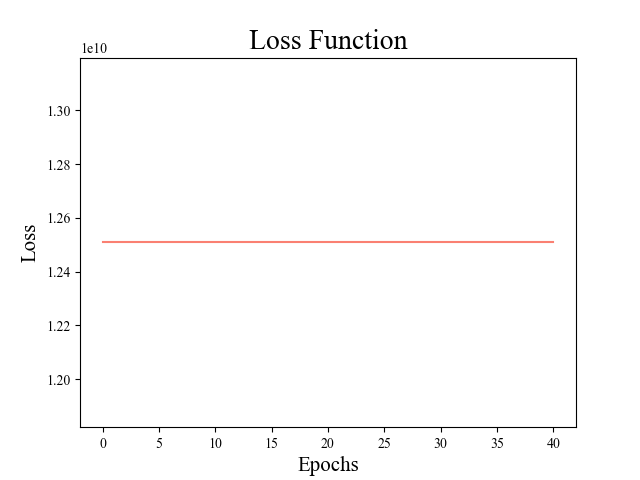
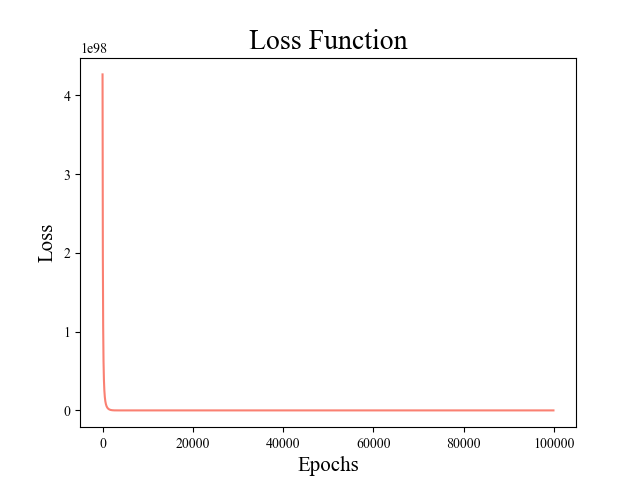
Update the approach for learning from sampling

diff --git a/train.py b/train.py
@@ -6,10 +6,11 @@ Implementing polynomial decomposition using PyTorch.
 # Imports
 import torch
 import torch.optim as optim
-from model import PolynomialDecomposition, WeightedMSELoss
+from model import PolynomialDecomposition
+import numpy as np
 import sympy as sp
 from sympy import expand
-from functions import generate_polynomial, plot_loss
+from functions import *
 from tqdm.auto import tqdm
 from os.path import join
 
@@ -17,8 +18,12 @@ from os.path import join
 DEVICE = torch.device("cuda" if torch.cuda.is_available() else "cpu")
 
 # Hyperparameters
-LR = 0.001
-EPOCHS = 1000
+LR = 1e-3
+EPOCHS = int(1e5)
+EARLY_STOPPING = 200
+EPSILON = 1e-3
+SAMPLES = 1000
+VAR = 10
 DEG_P, DEG_Q = 5, 3
 DEGREE = DEG_P * DEG_Q
 WEIGHTS = torch.linspace(1, DEGREE + 1, steps=DEGREE + 1).to(DEVICE)
@@ -29,8 +34,11 @@ x = sp.symbols('x')
 # Define the polynomials
 P, Q = generate_polynomial(degree=DEG_P, var=x), generate_polynomial(degree=DEG_Q, var=x)
 R = expand(P.subs(x, Q))
-# Get its coefficients
-R_coeffs = torch.tensor(sp.Poly(R, x).all_coeffs()[::-1], dtype=torch.float64).to(DEVICE)
+
+# Present the polynomials
+print("P(x):", present_result(P))
+print("Q(x):", present_result(Q))
+print("R(x):", present_result(R))
 
 # Initialize the model
 model = PolynomialDecomposition(degree=DEGREE).to(DEVICE)
@@ -39,25 +47,54 @@ model = PolynomialDecomposition(degree=DEGREE).to(DEVICE)
 optimizer = optim.Adam(model.parameters(), lr=LR)
 
 # Define loss function
-# loss_fn = WeightedMSELoss(WEIGHTS)
 loss_fn = torch.nn.MSELoss()
 
+# Define training data
+X = torch.linspace(-1*VAR, VAR, SAMPLES, dtype=torch.float64).to(DEVICE)
+f = sp.lambdify(x, R, modules=["numpy"])
+y = torch.tensor(f(X.cpu().numpy()), dtype=torch.float64, requires_grad=True).to(DEVICE)
+
 # Set a list of loss functions
-losses = []
+losses, count = [], 0
 # Build a training loop
+model.train()
 for epoch in tqdm(range(EPOCHS), desc="Training", unit="epoch", total=EPOCHS):
     # Forward pass
     optimizer.zero_grad()
-    output = model()
+    output = model(X)
 
     # Compute loss
-    loss = loss_fn(output, R_coeffs)
+    loss = loss_fn(output, y)
     losses.append(loss.item())
 
     # Backward pass and optimization
     loss.backward()
     optimizer.step()
 
+    # Early stopping
+    if epoch > 1:
+        if abs(losses[-1] - losses[-2]) < EPSILON:
+            count += 1
+            if count > EARLY_STOPPING:
+                print(f"Early stopping at epoch {epoch}")
+                break
+        else:
+            count = 0
+
     # Plot the loss
-    if epoch % 20 == 0:
+    if epoch % 100 == 0:
         plot_loss(losses, save=join("output", "loss.png"))
+
+# Evaluate the model
+model.eval()
+
+# Get the weights of the model
+P_weights = model.P.detach().cpu().numpy()
+Q_weights = model.Q.detach().cpu().numpy()
+
+# Present the results
+restored_p = sum(P_weights[i] * x ** i for i in range(len(P_weights)))
+restored_q = sum(Q_weights[i] * x ** i for i in range(len(Q_weights)))
+print("Restored P(x):", present_result(restored_p))
+print("Restored Q(x):", present_result(restored_q))
+print("Restored R(x):", present_result(expand(restored_p.subs(x, restored_q))))

diff --git a/model.py b/model.py
@@ -5,48 +5,6 @@ Designing the model for polynomial decomposition using PyTorch.
 
 import torch
 import torch.nn as nn
-import sympy as sp
-from sympy import expand
-
-
-def polynomial_decomposition(degree: int) -> callable:
-    """
-    Polynomial decomposition using SymPy.
-
-    Args:
-        degree (int): Degree of the polynomial.
-
-    Returns:
-        tuple: Coefficients of the polynomial P and Q.
-    """
-    # Define the variable
-    x = sp.symbols('x')
-    a_i, b_i = sp.symbols([f'a{i}' for i in range(degree//2 + 1)]), sp.symbols([f'b{i}' for i in range(degree//2 + 1)])
-    # Define the polynomial P and Q
-    P = sum(a_i[i] * x ** i for i in range(degree//2 + 1))
-    Q = sum(b_i[i] * x ** i for i in range(degree//2 + 1))
-    # Compute the polynomial composition
-    R = expand(P.subs(x, Q))
-    # Extract coefficients
-    coeffs = sp.Poly(R, x).all_coeffs()[::-1]
-
-    def compose(P: torch.tensor, Q: torch.tensor) -> torch.tensor:
-        """
-        Compose two polynomials P and Q.
-
-        Args:
-            P (list): Coefficients of polynomial P.
-            Q (list): Coefficients of polynomial Q.
-
-        Returns:
-            list: Coefficients of the composed polynomial P(Q).
-        """
-        # Substitute Q's values into b and P's values into a
-        R = torch.tensor([coeffs[i].subs([(k, v) for k, v in zip(b_i, Q)] + [(k, v) for k, v in zip(a_i, P)])
-                          for i in range(degree + 1)], device=P.device, dtype=torch.float64, requires_grad=True)
-        return R
-
-    return compose
 
 
 class PolynomialDecomposition(nn.Module):
@@ -65,30 +23,14 @@ class PolynomialDecomposition(nn.Module):
         # Set the degree of R
         self.degree = degree
         # Define the coefficients for P and Q
-        self.P = nn.Parameter(torch.randn(degree//2 + 1))
-        self.Q = nn.Parameter(torch.randn(degree//2 + 1))
-        # Create a function that describes the polynomial composition
-        self.compose = polynomial_decomposition(degree)
+        self.P = nn.Parameter(torch.randn(degree // 2 + 1, dtype=torch.float64))
+        self.Q = nn.Parameter(torch.randn(degree // 2 + 1, dtype=torch.float64))
 
-    def forward(self) -> torch.Tensor:
-        """
-        Forward pass for polynomial decomposition.
+    def forward(self, input: torch.Tensor) -> torch.Tensor:
+        # Compute Q(x)
+        Qx = sum(self.Q[i] * input ** i for i in range(len(self.Q)))  # Q(x)
 
-        Args:
-            x (torch.Tensor): Input tensor.
+        # Now compute P(Q(x)) = R(x)
+        Rx = sum(self.P[i] * Qx ** i for i in range(len(self.P)))  # P(Q(x)) = R(x)
 
-        Returns:
-            torch.Tensor: Output tensor after polynomial decomposition.
-        """
-        # Compute the polynomial composition
-        return self.compose(self.P, self.Q)
-
-
-# Define a loss function
-class WeightedMSELoss(nn.Module):
-    def __init__(self, weights):
-        super().__init__()
-        self.register_buffer('weights', weights)
-
-    def forward(self, y_pred, y_true):
-        return torch.mean(self.weights * (y_pred - y_true) ** 2)
+        return Rx  # Already differentiable!

diff --git a/functions.py b/functions.py
@@ -6,11 +6,12 @@ rcParams["font.family"] = "Times New Roman"
 
 
 def present_result(result):
-    print(str(result).replace("**", "^").replace("*", ""))
+    return str(result).replace("**", "^").replace("*", "")
 
 
 def generate_polynomial(degree, var):
-    coeffs = [random.randint(-5, 5) for _ in range(degree + 1)]
+    scale = 3
+    coeffs = [round(random.random()*2*scale-scale, 2) for _ in range(degree + 1)]
     polynomial = sum(coeffs[i] * var ** i for i in range(degree + 1))
     return polynomial
 
